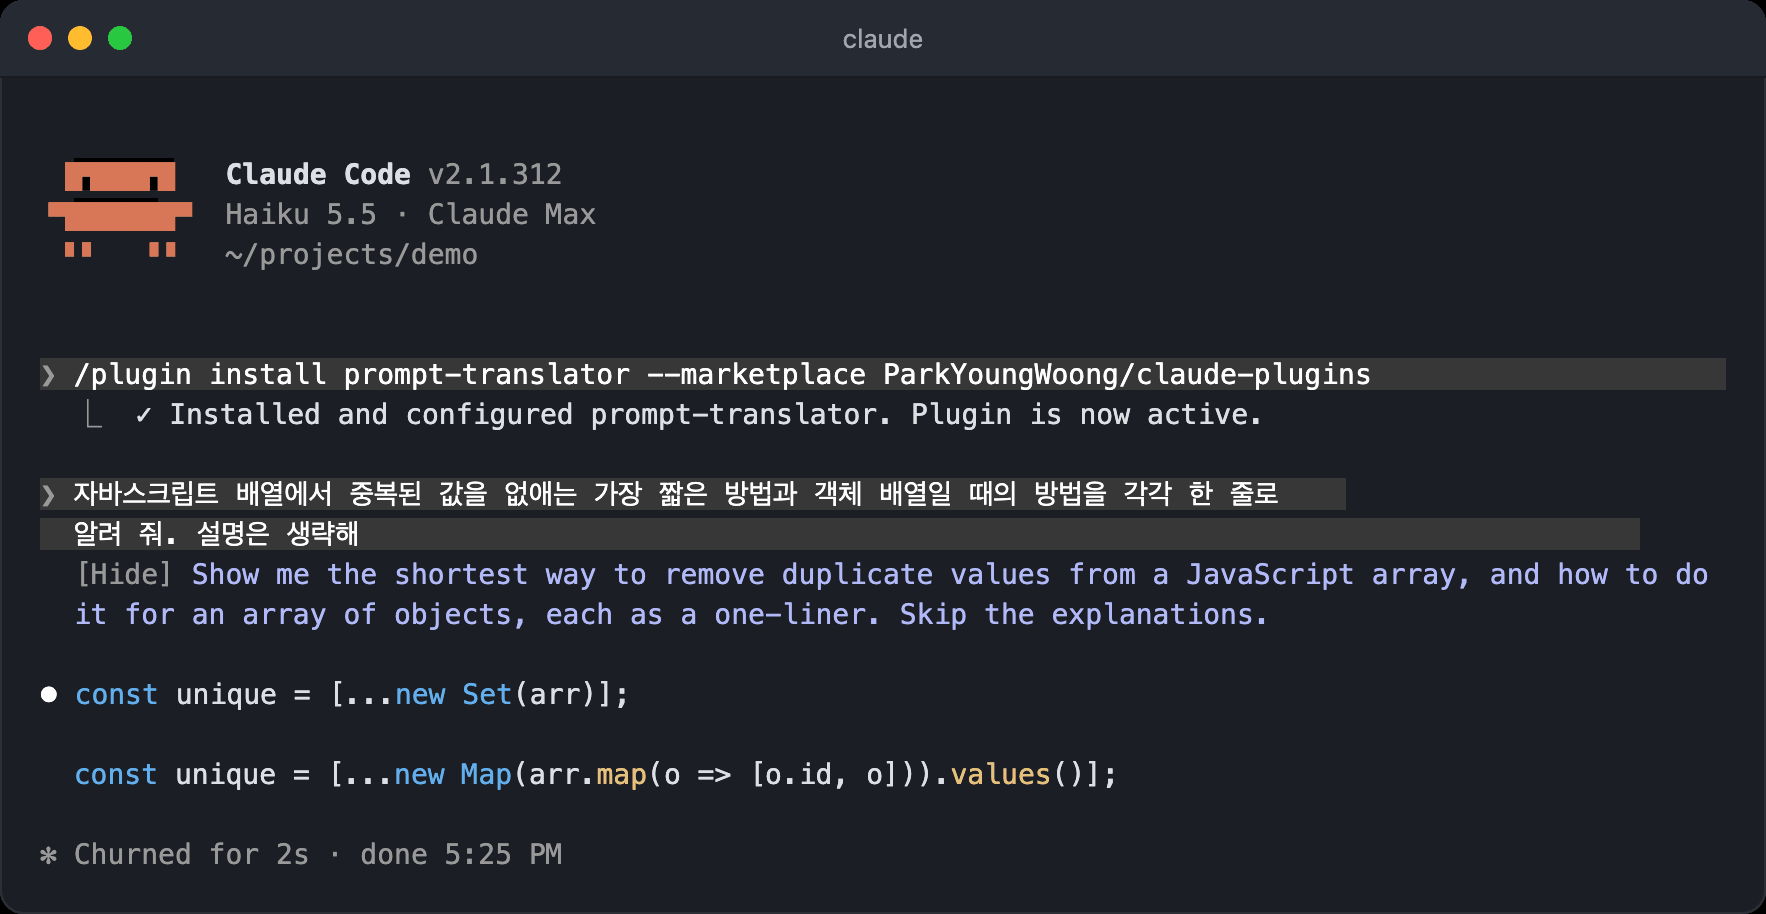
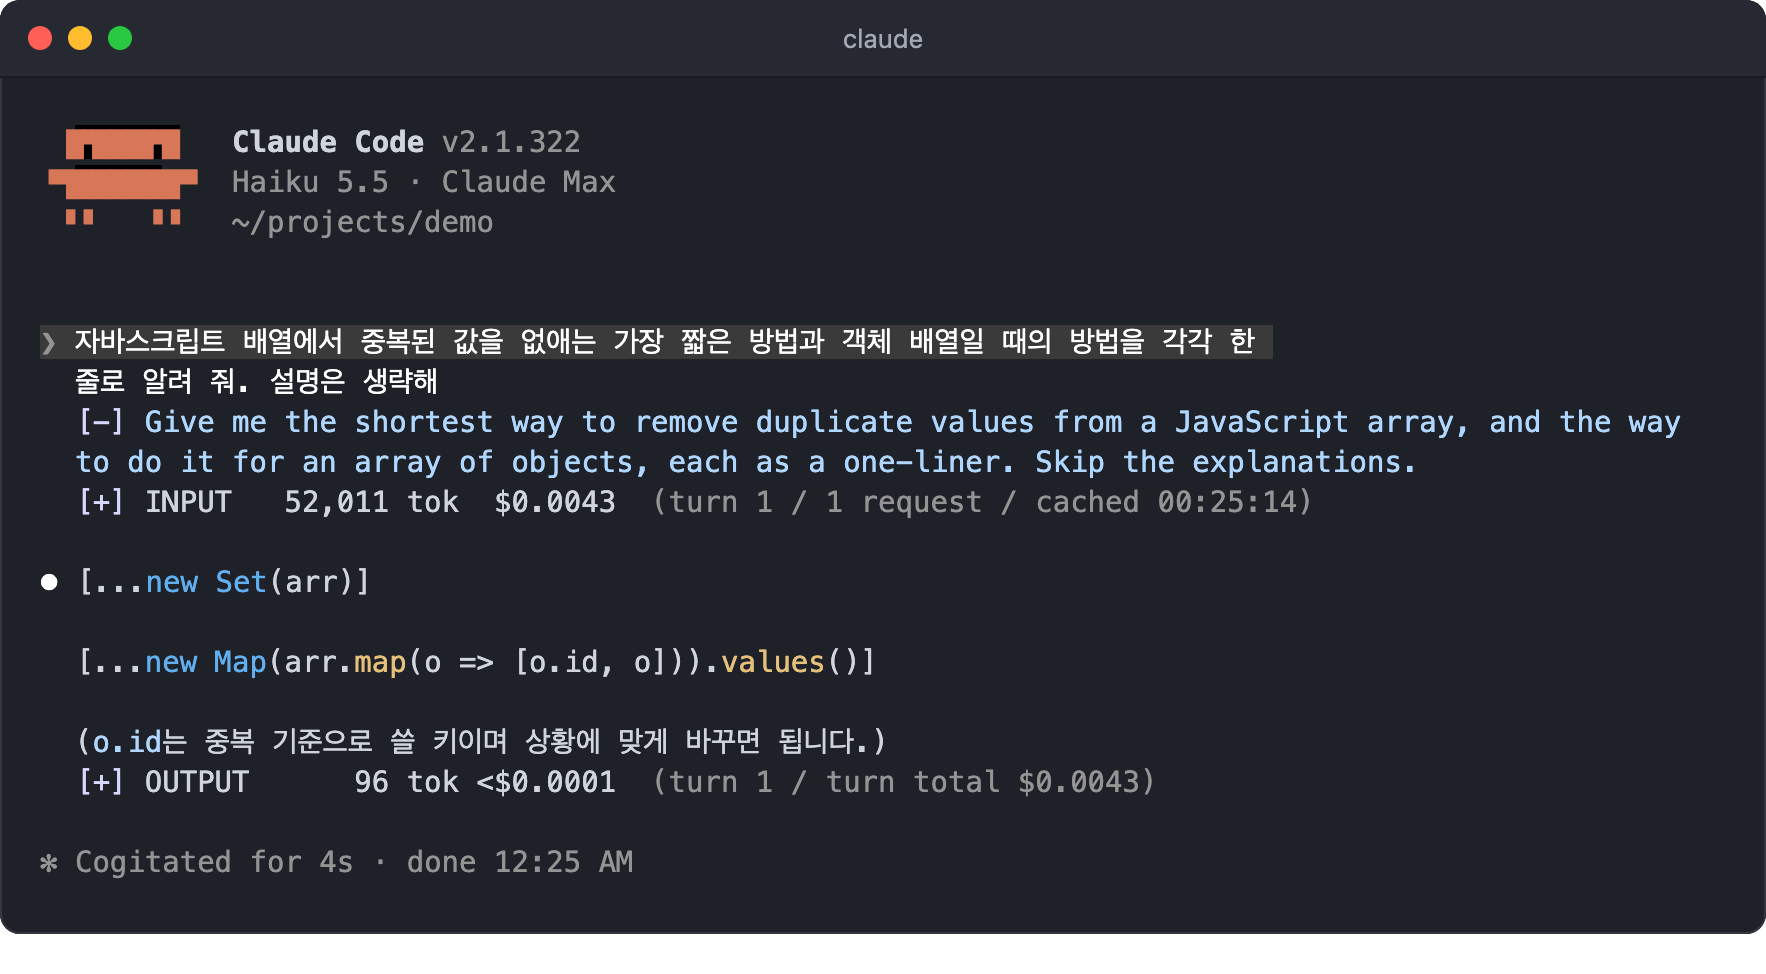
prompt-translator README 설명 개선과 터미널 스크린샷을 [-] 단추 화면으로 교체
- 도입부에 접기 단추와 번역이 읽기 전용이라는 점을 넣는다
- 터미널 스크린샷 두 장을 실제 Claude Code 2.1.322 화면으로 새로 찍어 바꾸고, token-meter 줄이 함께 보인다고 적는다
- 일본어 예시 설명과 이미지 대체 글을 실제 화면에 맞춘다

Claude-Session: https://claude.ai/code/session_012BX5b2sc6vGAsyVu4cjRiF

diff --git a/plugins/prompt-translator/README.ko.md b/plugins/prompt-translator/README.ko.md
@@ -1,7 +1,8 @@
 # prompt-translator
 
 입력한 프롬프트를 고른 언어로, 그 언어를 쓰는 개발자가 실제로 쓰는 자연스러운 문장으로 번역하는 Claude Code Mod입니다.  
-번역은 대화 기록의 프롬프트 줄 바로 밑에 보입니다.  
+번역은 대화 기록의 프롬프트 줄 바로 밑에 보이고, 앞의 `[-]`를 누르면 접힙니다.  
+번역은 읽기 위한 것이고, Claude는 입력한 원문을 그대로 받습니다.  
 번역할 언어는 터미널에서는 설치할 때, 데스크톱 앱에서는 설치한 뒤 설정 탭에서 고르고, 기본값은 미국 영어입니다.
 
 [English](./README.md)
@@ -38,9 +39,10 @@ Claude Code 터미널 세션의 프롬프트에서 실행합니다.
    <img src="./images/cli-install-3-language.png" alt="Translation language와 Auto-translate limit이 있는 Configure prompt-translator 화면" width="883">
 
 4. `Installed and configured prompt-translator. Plugin is now active.`가 보이면 지금 세션에서 바로 동작합니다.  
-   프롬프트를 입력하면 바로 밑에 번역이 보입니다.
+   프롬프트를 입력하면 바로 밑에 번역이 보입니다.  
+   아래 화면은 token-meter도 함께 설치한 모습이라 번역 밑에 `INPUT`, 답변 밑에 `OUTPUT` 줄이 있습니다.
 
-   <img src="./images/cli-translation.png" alt="한글 프롬프트 밑에 영어 번역이 보이는 화면" width="883">
+   <img src="./images/cli-translation.png" alt="한글 프롬프트 밑에 [-] 단추와 영어 번역이 보이는 화면" width="883">
 
 셸에서 설치할 때는 `--config`로 언어를 지정합니다.
 
@@ -98,9 +100,9 @@ Mod가 바로 새 언어로 다시 로드됩니다.
 
 <img src="./images/cli-config-language.png" alt="/config의 Translation language 목록" width="883">
 
-`日本語`로 바꾼 뒤에는 같은 한글 프롬프트가 일본어로 번역됩니다.
+`日本語`로 바꾼 뒤에는 한글 프롬프트가 일본어로 번역됩니다.
 
-<img src="./images/cli-translation-japanese.png" alt="한글 프롬프트 밑에 일본어 번역이 보이는 화면" width="883">
+<img src="./images/cli-translation-japanese.png" alt="한글 프롬프트 밑에 [-] 단추와 일본어 번역이 보이는 화면" width="883">
 
 ## 동작
 

diff --git a/plugins/prompt-translator/README.md b/plugins/prompt-translator/README.md
@@ -1,7 +1,8 @@
 # prompt-translator
 
 A Claude Code mod that translates the prompts you type into the language you choose, the way a native-speaking developer would actually write them.  
-The translation shows right under the prompt in the transcript.  
+The translation shows right under the prompt in the transcript, and `[-]` in front of it folds it away.  
+It is only for reading: Claude still gets the prompt exactly as you typed it.  
 You pick the language when you install it in the terminal, or in the plugin's Settings tab after installing it in the desktop app, and the default is American English.
 
 Read this in [한글](./README.ko.md).
@@ -38,9 +39,10 @@ Run this from the prompt of a Claude Code terminal session.
    <img src="./images/cli-install-3-language.png" alt="Configure prompt-translator with Translation language and Auto-translate limit" width="883">
 
 4. When you see `Installed and configured prompt-translator. Plugin is now active.`, it already works in the current session.  
-   Type a prompt, and the translation shows right under it.
+   Type a prompt, and the translation shows right under it.  
+   The screenshot below has token-meter installed too, so `INPUT` and `OUTPUT` lines show under the translation and the reply.
 
-   <img src="./images/cli-translation.png" alt="A Korean prompt with its English translation shown under it" width="883">
+   <img src="./images/cli-translation.png" alt="A Korean prompt with [-] and its English translation shown under it" width="883">
 
 From a shell, pass the language with `--config`.
 
@@ -98,9 +100,9 @@ The mod reloads right away with the new language.
 
 <img src="./images/cli-config-language.png" alt="The Translation language list in /config" width="883">
 
-After switching to `日本語`, the same kind of prompt is translated into Japanese.
+After switching to `日本語`, Korean prompts are translated into Japanese.
 
-<img src="./images/cli-translation-japanese.png" alt="A Korean prompt with its Japanese translation shown under it" width="883">
+<img src="./images/cli-translation-japanese.png" alt="A Korean prompt with [-] and its Japanese translation shown under it" width="883">
 
 ## How it works
 
